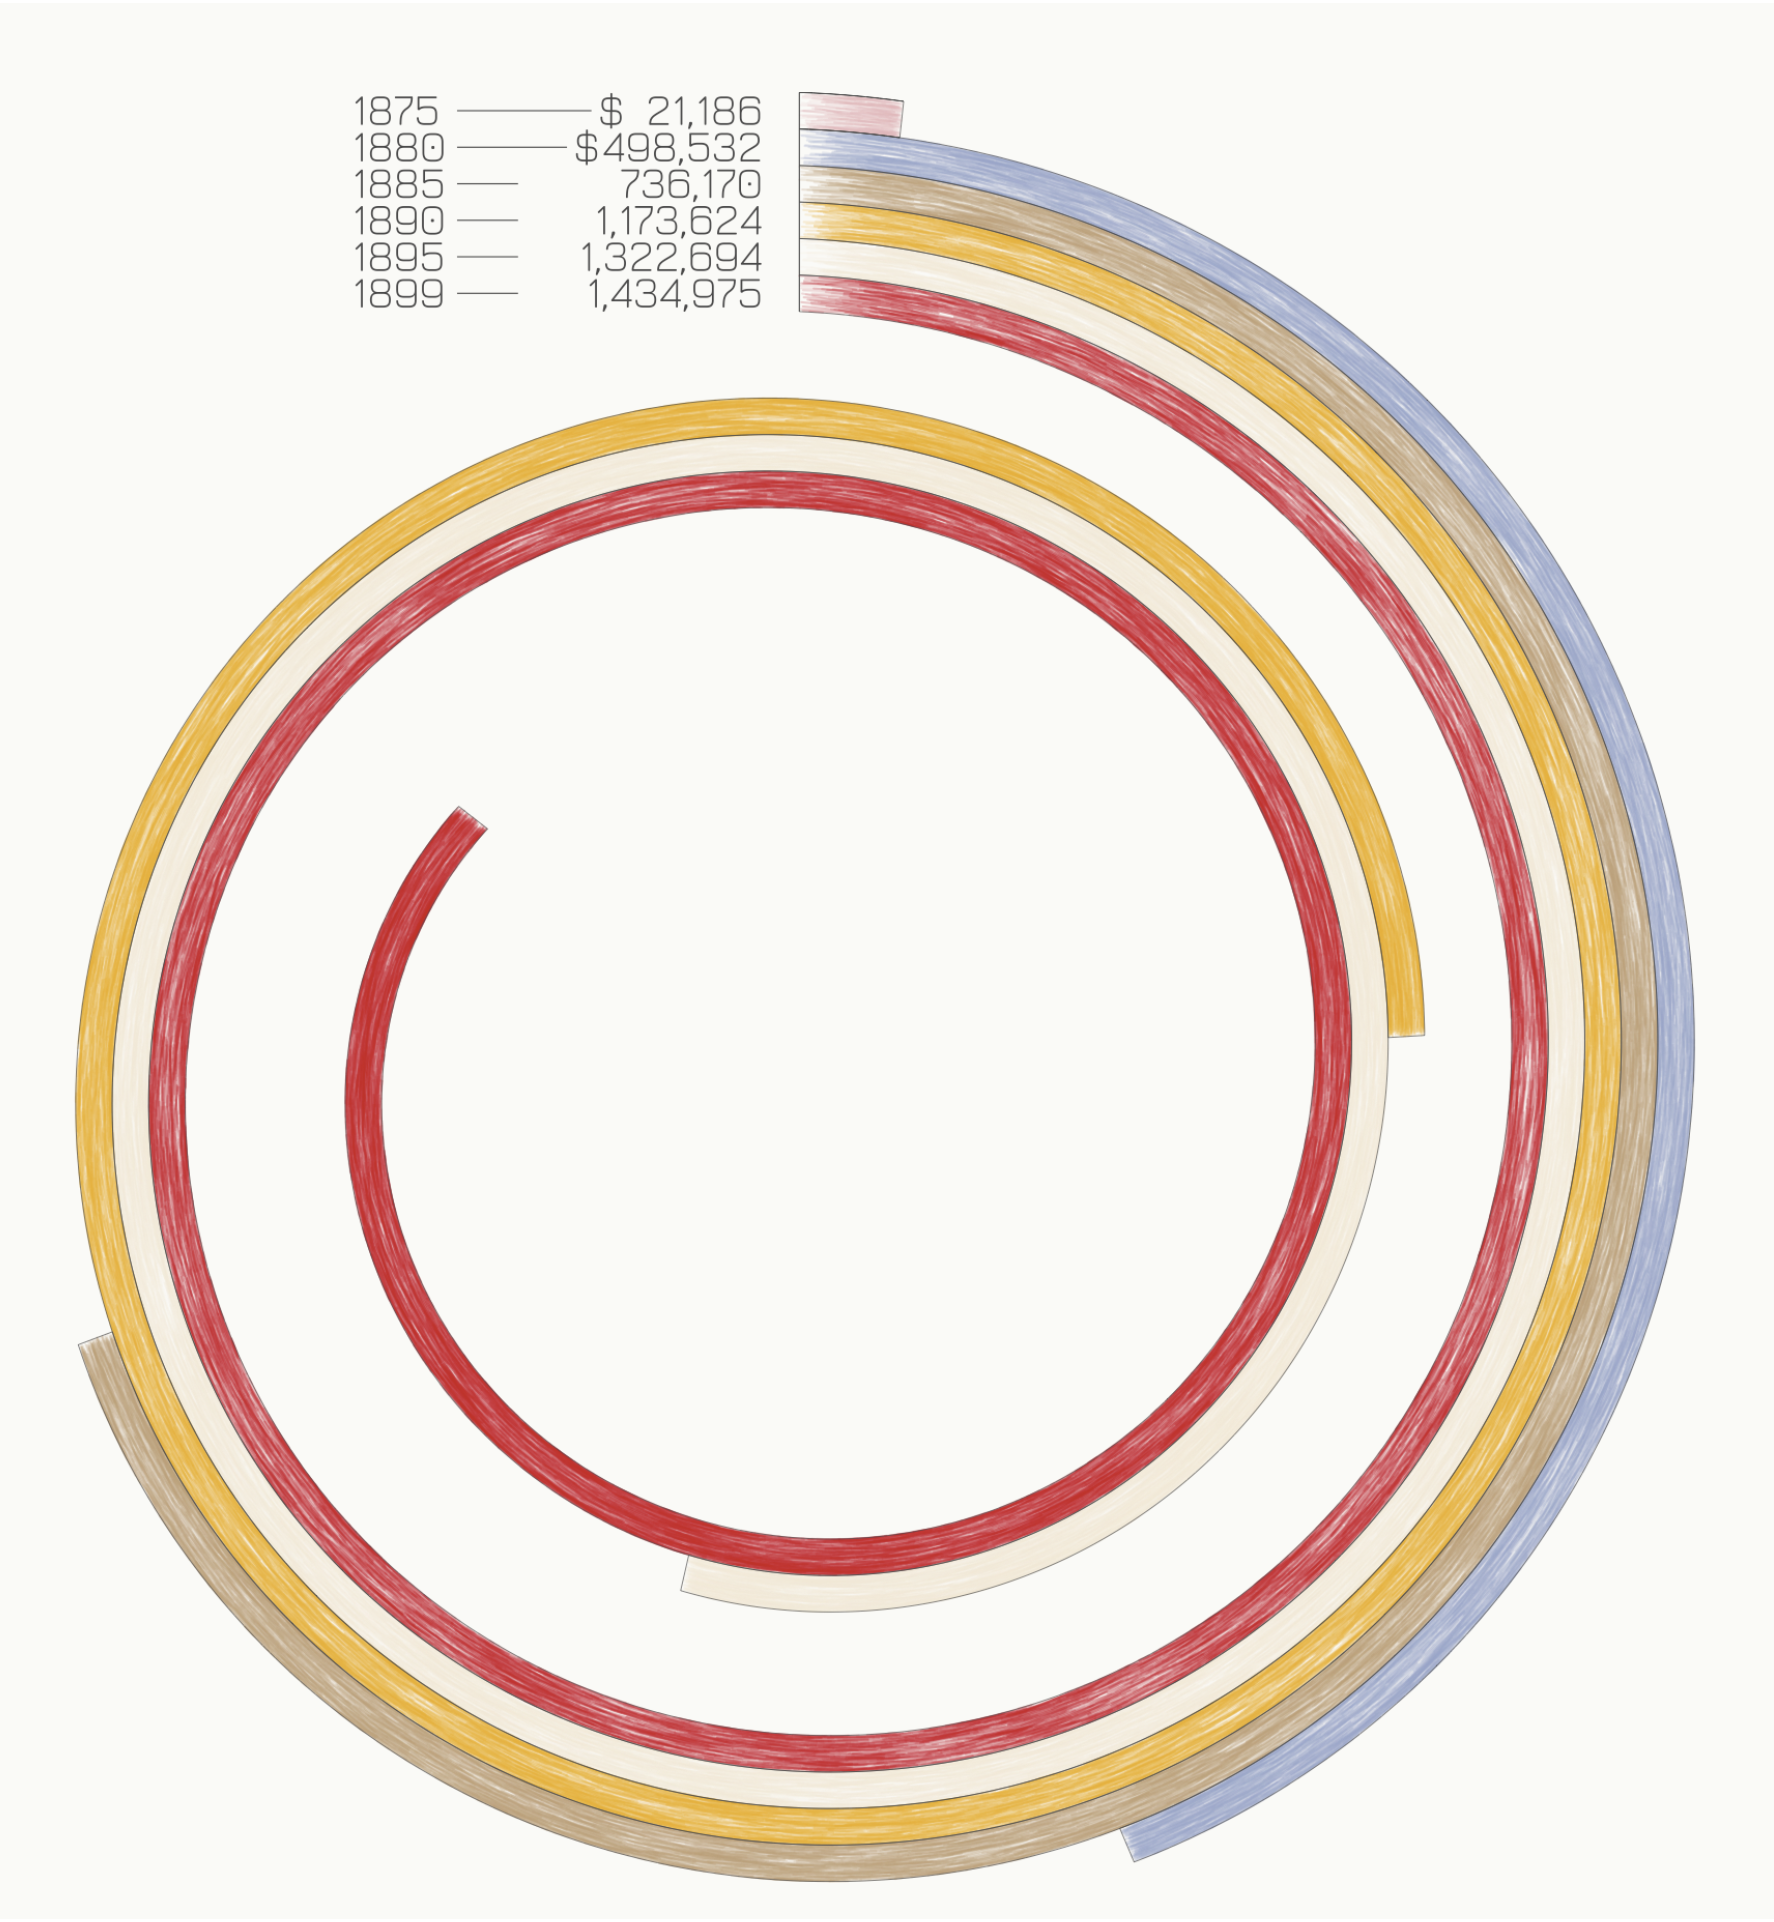
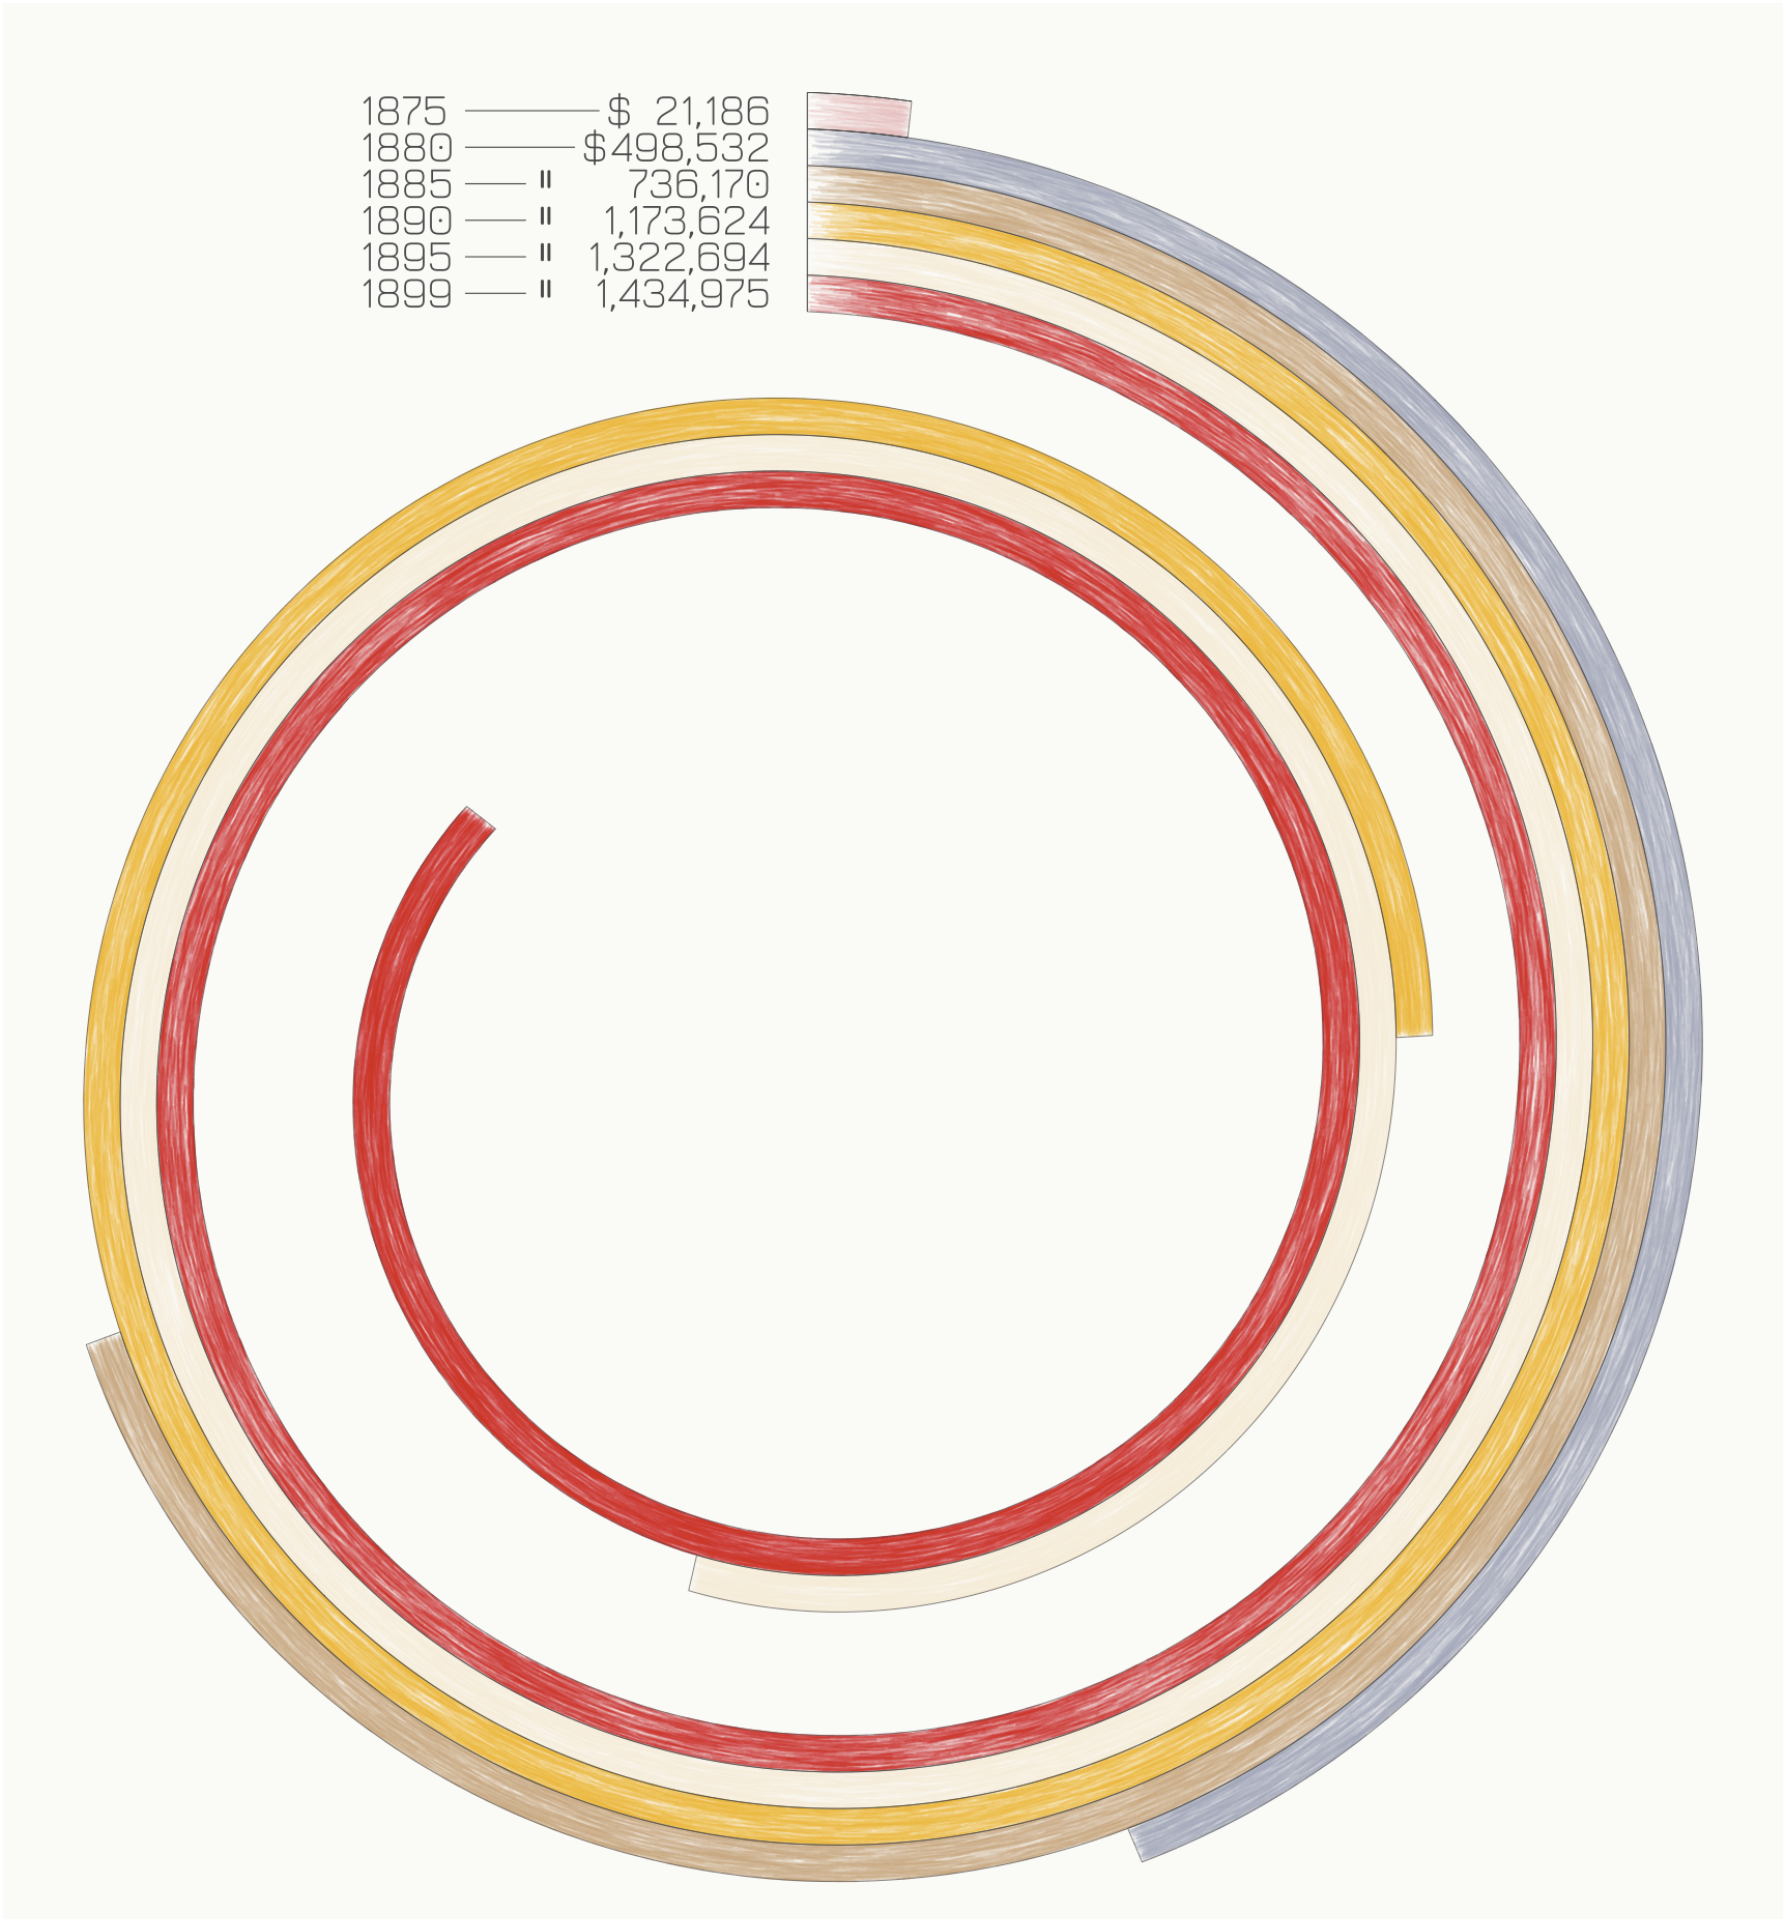
readme und images geändert

diff --git a/2026/dubois_circle/README.md b/2026/dubois_circle/README.md
@@ -12,9 +12,29 @@ I wanted to find out whether I can rebuild a complex visual design as closely to
 |:---:|:---:|
 | ![Original Du Bois plate](figures/du_bois_original.jpg) | ![Recreation of the Du Bois spiral in R](figures/du_bois_circle.png) |
 
-The ring ends of the recreation match the original within about 5° (measured on screenshots of both; the end of the 1895 ring is estimated by eye, because the band is cream on cream paper).
-
 *Original: W.E.B. Du Bois and his students, 1900 Paris Exposition, Library of Congress.*
+
+### How close is it?
+
+I checked the recreation against the original by measuring both images.
+
+* **Ring ends:** all six rings end within about 5° of the original. The end of the 1895 ring is the least certain value, because the band is cream on cream paper and I had to estimate it by eye.
+* **Colours:** blue, brown and cream are nearly identical to the original. Red and yellow are slightly paler.
+
+The measurements come from screenshots, so they show the order of magnitude and not an exact value.
+
+### Open points
+
+* red and yellow are a little paler than in the original
+* the paper of the original is a warm cream, the recreation page is almost white
+* the lettering of the original is technical drawing script, the recreation uses a different typeface
+* the hatching texture is my own design choice and not part of the original
+
+## 📄 The finished page
+
+The chart sits on a page styled as a diary sheet, built in HTML and CSS inside the Quarto document.
+
+![Finished page with the recreated spiral](figures/du_bois_page.png)
 
 ## 📖 The story
 
@@ -24,7 +44,7 @@ Du Bois presented these plates in Paris to show how African Americans had progre
 
 ### What the plate shows
 
-Each ring is one year. The length of a ring along its curve is proportional to the assessed value.
+Each ring is one year. The length of a ring along its curve is proportional to the assessed value. Measured on the original, this is the arc length of the band and not the angle, so the outer rings, which have a larger radius, cover a smaller angle for the same value.
 
 | Year | Value (USD) |
 |---|---|
@@ -40,12 +60,14 @@ Between 1875 and 1899 the value grew by a factor of almost 70.
 ## 🚀 What I did
 
 * Redrew the spiral from the original data, with the colours and the labelling of the plate
+* Worked out how the ring lengths are defined by measuring the original (arc length, not angle) and rebuilt the geometry accordingly
+* Tuned the colours step by step against the original
 * Created the coloured-pencil look with many semi-transparent hatching strokes, generated in code
 * Built the page around the chart (paper background, burnt top edge, handwritten captions) in HTML and CSS inside a Quarto document
 
 ## 🎨 Design
 
-* Cream paper background and a six-colour palette taken from the plate
+* A six-colour palette taken from the plate, with thin dark outlines on every ring
 * Serif and monospaced typefaces for the 1900s feel
 * The chart and the page layout are created entirely in code, without any design software
 
@@ -63,7 +85,8 @@ dubois_circle/
 ├── code/       du_bois_circle.qmd
 ├── data/       du_bois_circle_data.csv
 ├── images/     logo1.png (page background)
-├── figures/    du_bois_circle.png (recreation), du_bois_original.jpg (original plate)
+├── figures/    du_bois_circle.png (chart), du_bois_page.png (finished page),
+│               du_bois_original.jpg (original plate)
 └── README.md
 ```
 
@@ -82,4 +105,4 @@ dubois_circle/
 
 ## 🤝 Credits
 
-The style and the plate belong to W.E.B. Du Bois and his students. Translating it to code was my part. Made with R and Quarto, with AI assistance for debugging and code iteration.
+The style and the plate belong to W.E.B. Du Bois and his students. The idea to rebuild it, the decisions about how close to get to the original and the checks against it are mine. When I needed to iterate on the code or got stuck, I worked with an AI assistant.
